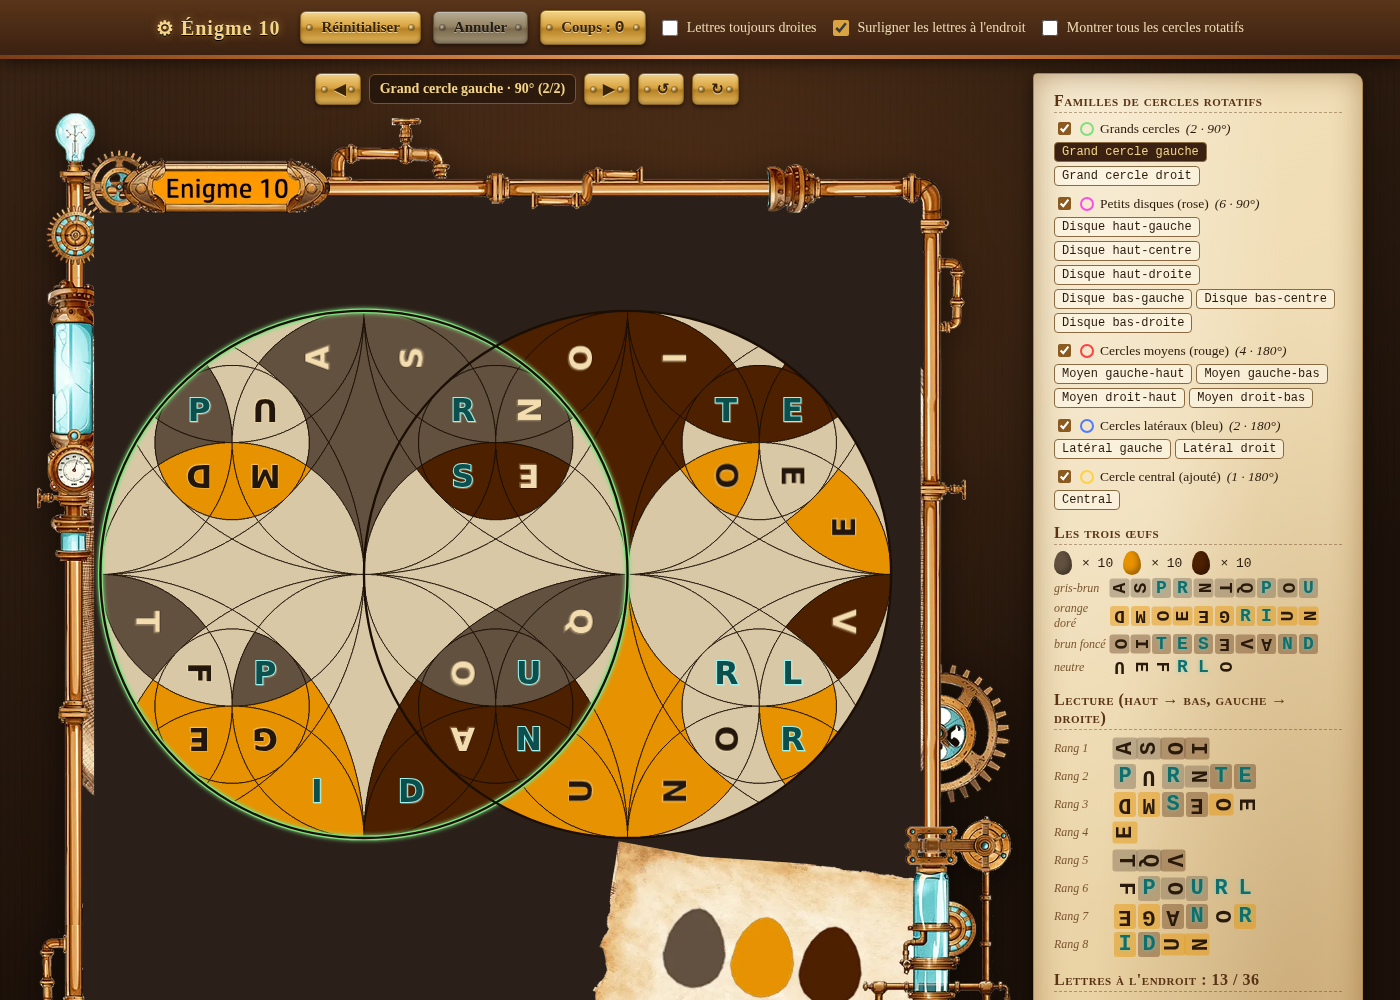
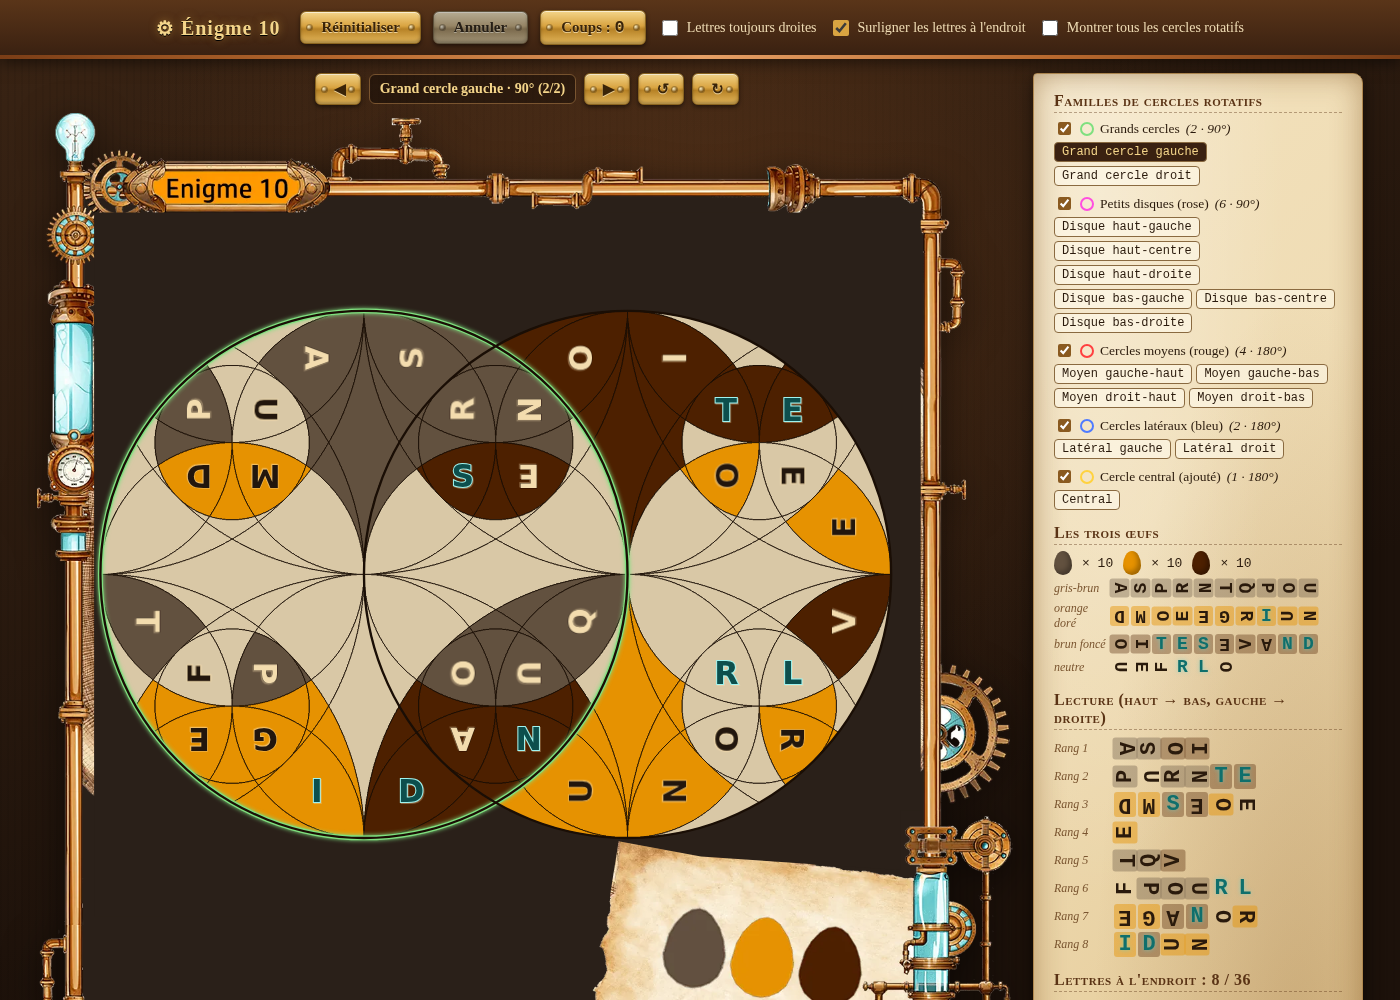
Orientation des lettres corrigée selon l'artwork (Q, U, F, P, R, A, V)

diff --git a/index.html b/index.html
@@ -190,21 +190,21 @@ const CONFIG = {
   },
   letters: [
     // pétales
-    {l:'A', x:290, y:220, rot:-90}, {l:'S', x:400, y:215, rot:-90}, {l:'O', x:615, y:220, rot:90}, {l:'I', x:735, y:215, rot:90},
-    {l:'E', x:965, y:435, rot:-90}, {l:'V', x:965, y:575, rot:90}, {l:'Q', x:620, y:555, rot:90}, {l:'T', x:45,  y:520, rot:90},
+    {l:'A', x:290, y:220, rot:90}, {l:'S', x:400, y:215, rot:-90}, {l:'O', x:615, y:220, rot:90}, {l:'I', x:735, y:215, rot:90},
+    {l:'E', x:965, y:435, rot:-90}, {l:'V', x:965, y:575, rot:-90}, {l:'Q', x:620, y:555, rot:-90}, {l:'T', x:45,  y:520, rot:90},
     {l:'I', x:285, y:775, rot:0},   {l:'D', x:400, y:770, rot:0},  {l:'U', x:600, y:775, rot:-90}, {l:'N', x:735, y:775, rot:90},
     // disque haut-gauche
-    {l:'P', x:135, y:290, rot:0}, {l:'U', x:210, y:290, rot:180}, {l:'D', x:135, y:375, rot:180}, {l:'M', x:210, y:375, rot:180},
+    {l:'P', x:135, y:290, rot:-90}, {l:'U', x:210, y:290, rot:90}, {l:'D', x:135, y:375, rot:180}, {l:'M', x:210, y:375, rot:180},
     // disque haut-centre
-    {l:'R', x:465, y:290, rot:0}, {l:'N', x:545, y:290, rot:90}, {l:'S', x:465, y:380, rot:0}, {l:'E', x:545, y:380, rot:180},
+    {l:'R', x:465, y:290, rot:-90}, {l:'N', x:545, y:290, rot:90}, {l:'S', x:465, y:380, rot:0}, {l:'E', x:545, y:380, rot:180},
     // disque haut-droite
     {l:'T', x:800, y:290, rot:0}, {l:'E', x:880, y:290, rot:0}, {l:'O', x:795, y:375, rot:90}, {l:'E', x:885, y:375, rot:90},
     // disque bas-gauche
-    {l:'F', x:130, y:620, rot:90}, {l:'P', x:205, y:615, rot:0}, {l:'E', x:130, y:705, rot:180}, {l:'G', x:205, y:700, rot:180},
+    {l:'F', x:130, y:620, rot:-90}, {l:'P', x:205, y:615, rot:90}, {l:'E', x:130, y:705, rot:180}, {l:'G', x:205, y:700, rot:180},
     // disque bas-centre
-    {l:'O', x:470, y:620, rot:90}, {l:'U', x:545, y:620, rot:0}, {l:'A', x:470, y:705, rot:180}, {l:'N', x:545, y:705, rot:0},
+    {l:'O', x:470, y:620, rot:90}, {l:'U', x:545, y:620, rot:90}, {l:'A', x:470, y:705, rot:180}, {l:'N', x:545, y:705, rot:0},
     // disque bas-droite
-    {l:'R', x:800, y:620, rot:0}, {l:'L', x:870, y:620, rot:0}, {l:'O', x:800, y:705, rot:90}, {l:'R', x:880, y:705, rot:0},
+    {l:'R', x:800, y:620, rot:0}, {l:'L', x:870, y:620, rot:0}, {l:'O', x:800, y:705, rot:90}, {l:'R', x:880, y:705, rot:90},
   ],
   shadeOverrides: [],
   shades: { plain:'#d9c8a6', grey:'#62513f', orange:'#e69201', dark:'#4d2000' },
